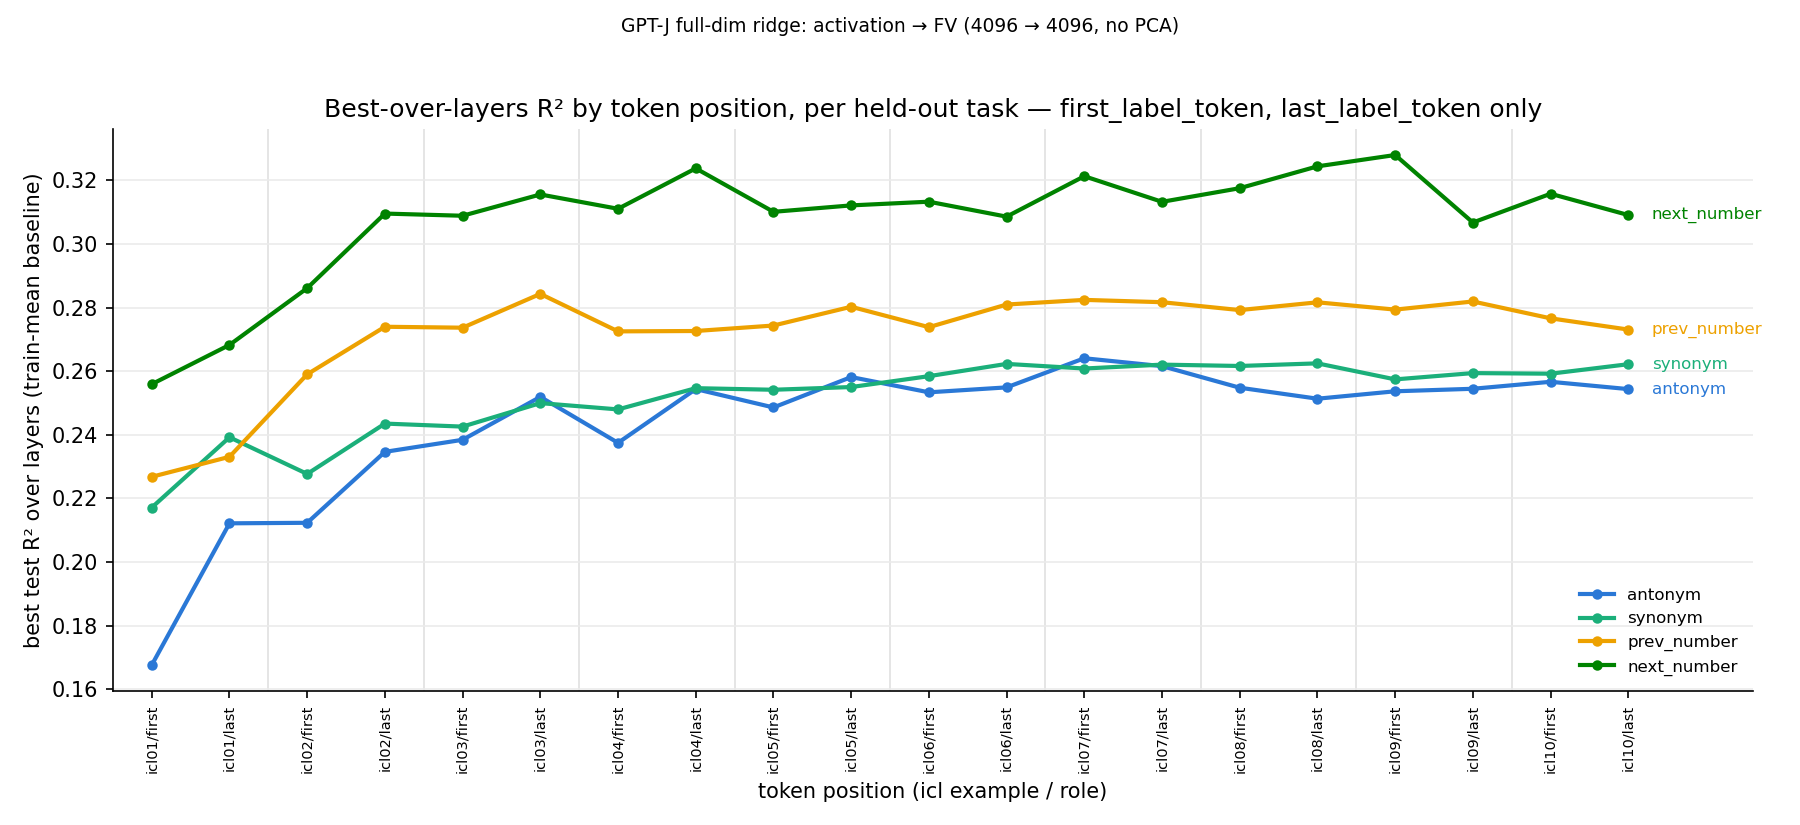
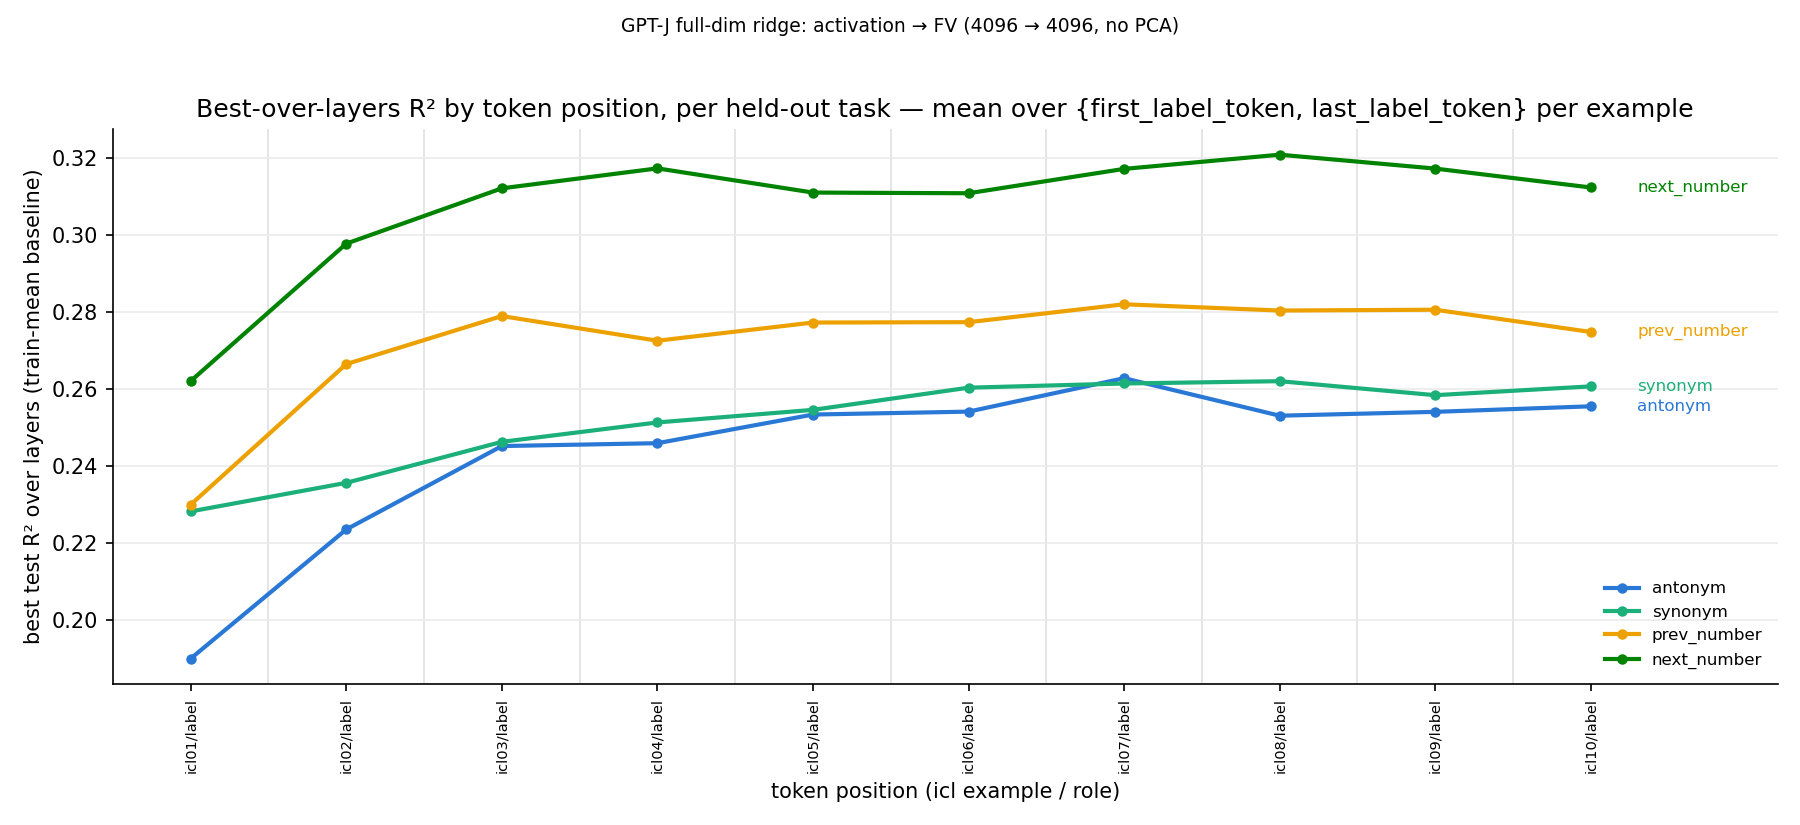
Stream X: label-token line plot now averages first/last label best-R2 per example

diff --git a/src/eval_scripts/plot_pertask_r2_best_lines.py b/src/eval_scripts/plot_pertask_r2_best_lines.py
@@ -33,6 +33,11 @@ def parse_args():
                    help="Tasks to plot, in legend/color order.")
     p.add_argument("--roles", nargs="+", default=None,
                    help="Only plot these token roles (e.g. pre_label_token). Default: all.")
+    p.add_argument("--average_roles", action="store_true",
+                   help="Collapse the selected roles into ONE point per ICL example: the mean of "
+                        "the per-role best-over-layers R^2 values.")
+    p.add_argument("--average_label", type=str, default="mean",
+                   help="Role shorthand shown in x tick labels when --average_roles is set.")
     p.add_argument("--output", type=Path, default=None,
                    help="Default: <csv dir>/best_r2_by_position_lines.png")
     return p.parse_args()
@@ -54,8 +59,20 @@ def main():
             if key not in best or v > best[key]:
                 best[key] = v
 
-    positions = sorted({k[1] for k in best}, key=lambda ir: position_key(*ir))
-    labels = [position_label(*p) for p in positions]
+    if args.average_roles:
+        # One point per ICL example: mean of the per-role best-over-layers values.
+        pooled = {}
+        for (task, (icl, role)), v in best.items():
+            pooled.setdefault((task, icl), []).append(v)
+        n_roles = {len(v) for v in pooled.values()}
+        if len(n_roles) != 1:
+            raise ValueError(f"Uneven role counts per (task, icl): {sorted(n_roles)}")
+        best = {(task, (icl, args.average_label)): sum(v) / len(v) for (task, icl), v in pooled.items()}
+        positions = sorted({k[1] for k in best})
+        labels = [f"icl{icl:02d}/{role}" for icl, role in positions]
+    else:
+        positions = sorted({k[1] for k in best}, key=lambda ir: position_key(*ir))
+        labels = [position_label(*p) for p in positions]
     x = range(len(positions))
 
     fig, ax = plt.subplots(figsize=(12, 5.5))
@@ -83,6 +100,8 @@ def main():
         ax.spines[side].set_visible(False)
     ax.legend(fontsize=8, frameon=False, loc="lower right")
     role_note = "" if args.roles is None else f" — {', '.join(args.roles)} only"
+    if args.average_roles:
+        role_note = f" — mean over {{{', '.join(args.roles or ['all roles'])}}} per example"
     ax.set_title(f"Best-over-layers R² by token position, per held-out task{role_note}")
     fig.suptitle(run_title(args.input_csv.parent.parent.name), fontsize=9)
     fig.tight_layout(rect=(0, 0, 1, 0.96))

diff --git a/WORKLOG.md b/WORKLOG.md
@@ -66,9 +66,9 @@ one line per task. Shows a within-example sawtooth: every task peaks at the `pre
 each cycle (with icl10/finaltok matching the pre-level for antonym/synonym), number tasks sit
 ~0.05–0.08 above antonym/synonym at every position, and positions saturate by ~icl04–05.
 Role-filtered variants (`--roles`): `..._prelabel.png` (pre_label_token only — smooth monotone
-saturation, antonym slowest to saturate ~icl05–07) and `..._label.png` (first/last label tokens
-only — flatter, ~0.03–0.06 lower, first<last early for antonym; label positions carry less
-FV-predictive signal than pre positions at every ICL depth).
+saturation, antonym slowest to saturate ~icl05–07) and `..._label.png` (label tokens, one point
+per example = mean of first/last best-R² via `--average_roles` — flatter, ~0.03–0.06 lower than
+pre positions at every ICL depth).
 
 **Verification:** icl1 activations for both number tasks load through the ridge's own loader with
 shape (170, 29, 4096) fp16, matching existing tasks; alpha choices and original-task MSEs
